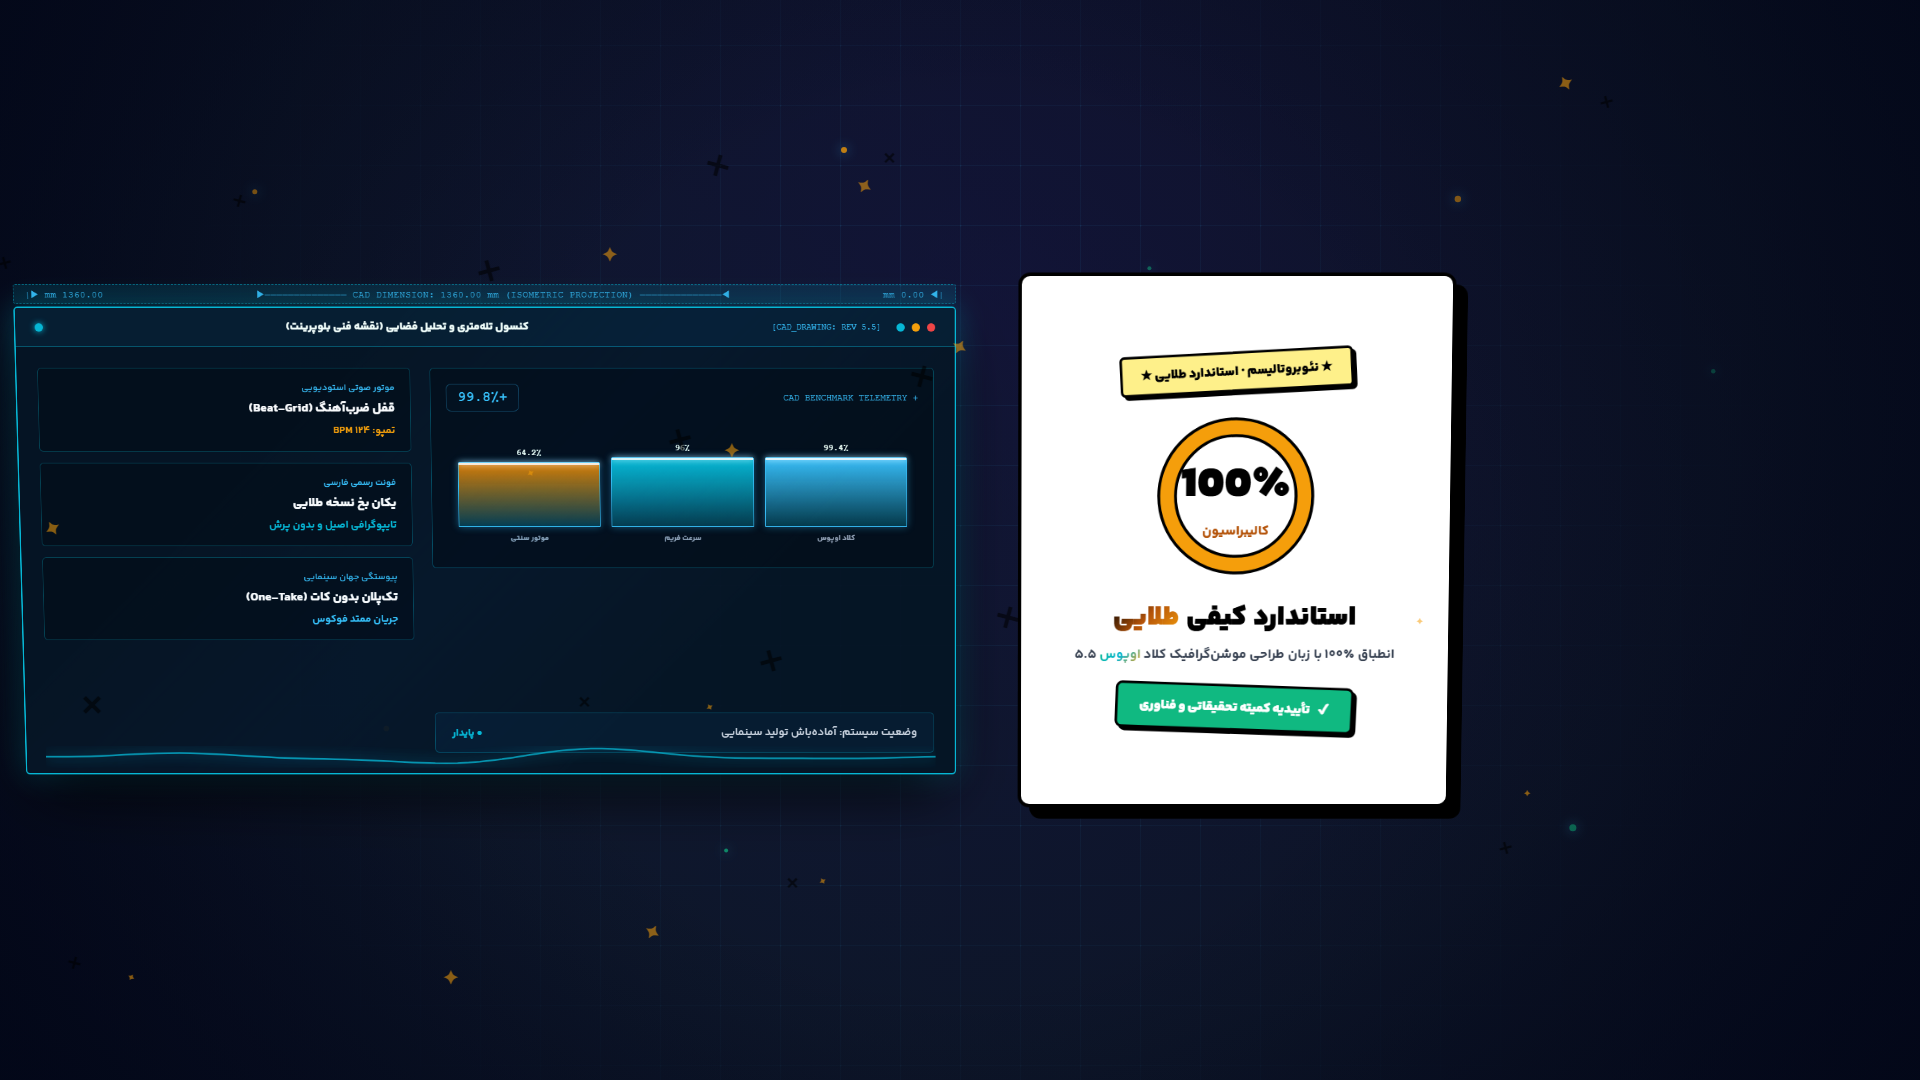
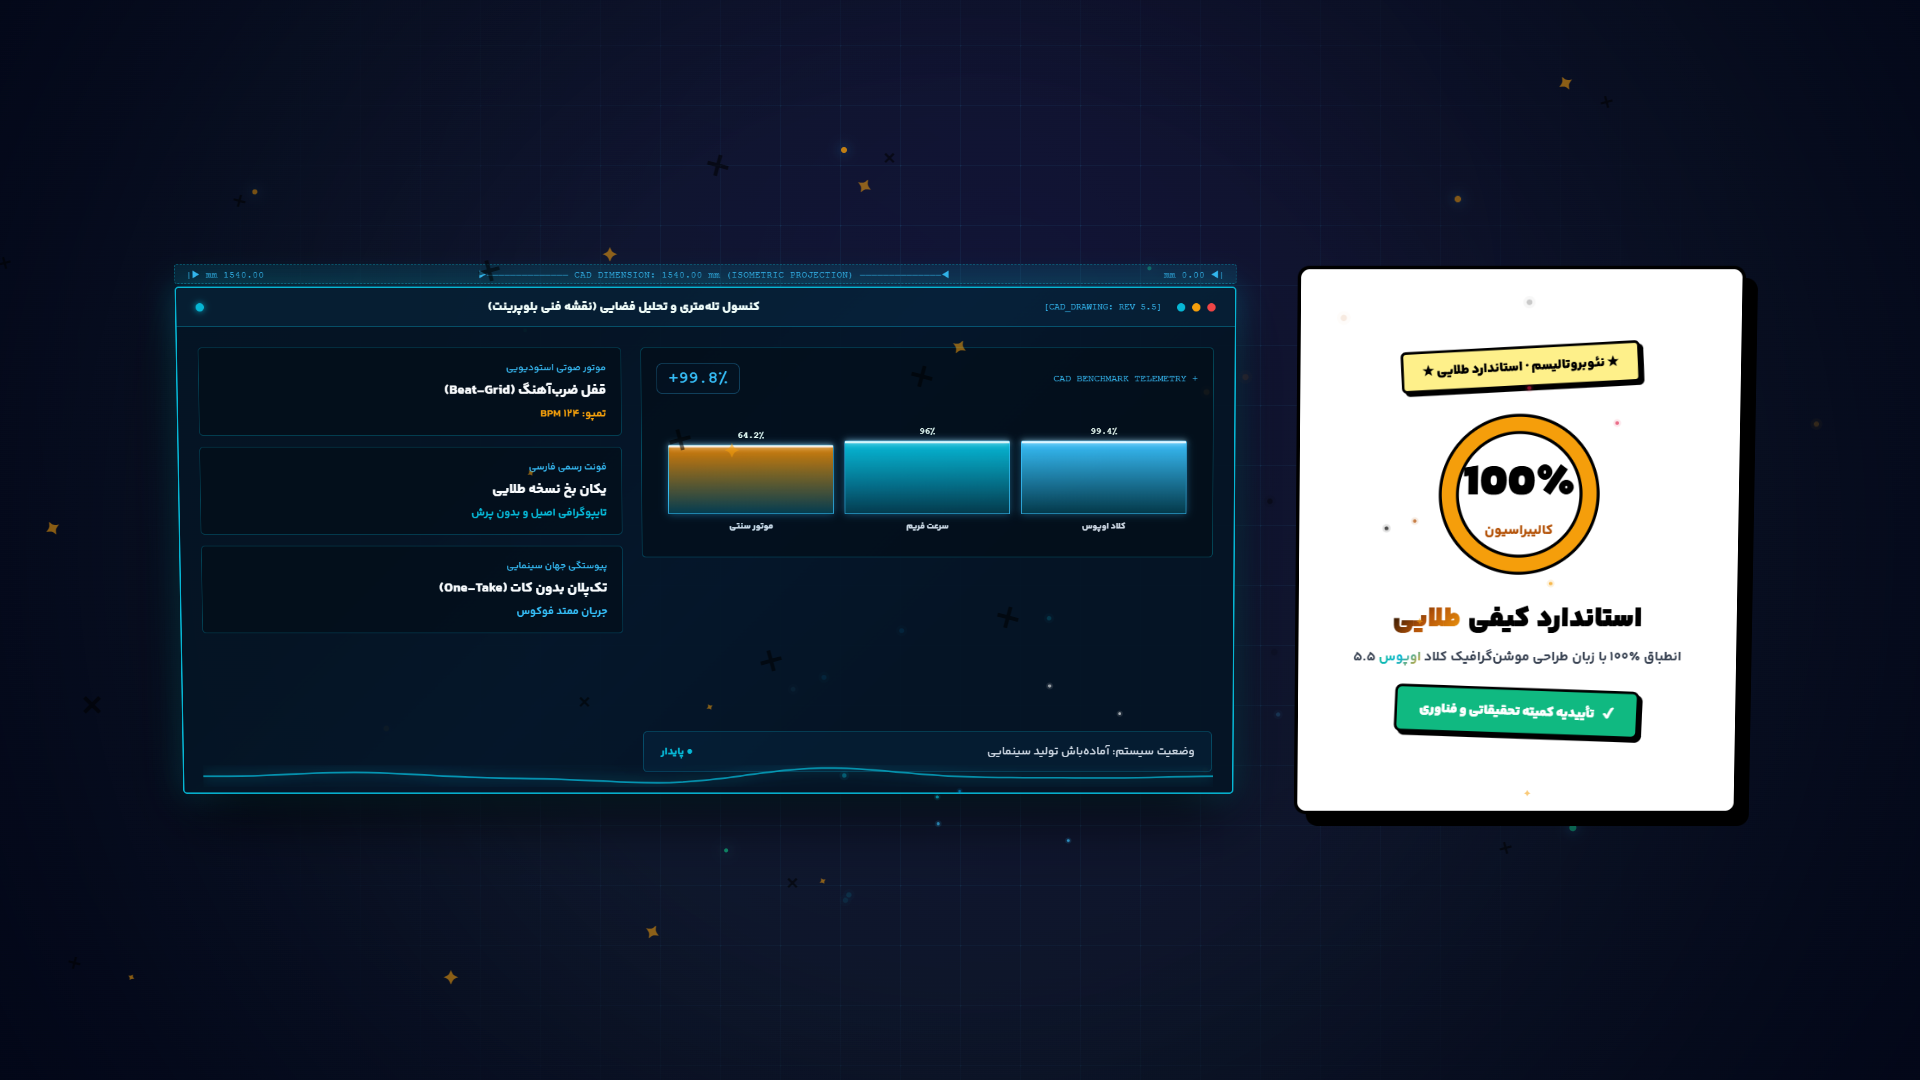
fix(camera-framing): calibrate intimate Act 3 zoom, symmetrical Act 4 docked centering and distributed airy attractor swarm

Changed region(s): [[0.0, 0.2444, 0.9375, 0.7639], [0.125, 0.5194, 0.2188, 0.5806], [0.3438, 0.3361, 0.375, 0.3667]]

diff --git a/src/motion/claude/SkillIntroShowreel.tsx b/src/motion/claude/SkillIntroShowreel.tsx
@@ -107,28 +107,28 @@ export const SkillIntroShowreelContent: React.FC = () => {
   const camY = interpolate(
     frame,
     [0, 280, 370, 690, 780, 1190, 1280, 1800],
-    [0, 0, 10, 10, -20, -20, 0, 0],
+    [0, 0, 10, 10, -10, -10, 0, 0],
     { extrapolateLeft: 'clamp', extrapolateRight: 'clamp' }
   );
 
   const camZ = interpolate(
     frame,
     [0, 280, 370, 690, 780, 1190, 1280, 1800],
-    [0, 40, 60, 60, 40, 40, -80, -80],
+    [0, 40, 60, 60, 160, 160, -50, -50],
     { extrapolateLeft: 'clamp', extrapolateRight: 'clamp' }
   );
 
   const camPitch = interpolate(
     frame,
     [0, 280, 370, 690, 780, 1190, 1280, 1800],
-    [0, 1.5, 4, 4, -8, -8, -2, -2],
+    [0, 1.5, 4, 4, -1.8, -1.8, -1.5, -1.5],
     { extrapolateLeft: 'clamp', extrapolateRight: 'clamp' }
   );
 
   const camYaw = interpolate(
     frame,
     [0, 280, 370, 690, 780, 1190, 1280, 1800],
-    [0, 0, -3, -3, 10, 10, 0, 0],
+    [0, 0, -3, -3, 2.2, 2.2, 0, 0],
     { extrapolateLeft: 'clamp', extrapolateRight: 'clamp' }
   );
 
@@ -234,13 +234,13 @@ export const SkillIntroShowreelContent: React.FC = () => {
     config: { damping: 14, mass: 0.9, stiffness: 110 },
   });
 
-  // In Act 4 docked pavilion, Act 3 slides smoothly from X=3600 to X=3720 and scales to 0.70
-  const act3X = interpolate(frame, [1190, 1280], [3600, 3720], {
+  // In Act 4 docked pavilion, Act 3 slides smoothly from X=3600 to X=3949 and scales to 0.70
+  const act3X = interpolate(frame, [1190, 1280], [3600, 3949], {
     extrapolateLeft: 'clamp',
     extrapolateRight: 'clamp',
     easing: Easing.inOut(Easing.cubic),
   });
-  const saasDockScale = interpolate(frame, [1190, 1280], [1.0, 0.70], {
+  const saasDockScale = interpolate(frame, [1190, 1280], [1.0, 0.68], {
     extrapolateLeft: 'clamp',
     extrapolateRight: 'clamp',
   });
@@ -458,6 +458,7 @@ export const SkillIntroShowreelContent: React.FC = () => {
               <NewtonianAttractorSwarm
                 attractorX={0}
                 attractorY={180}
+                particleCount={20}
                 theme="MODERN_GLASSMORPHIC"
                 clickFrame={219}
                 beatPulse={scalePulse}
@@ -588,8 +589,9 @@ export const SkillIntroShowreelContent: React.FC = () => {
 
               {/* Newtonian Attractor Swarm orbiting SVG Morph Core */}
               <NewtonianAttractorSwarm
-                attractorX={1800 - 320}
+                attractorX={-320}
                 attractorY={30}
+                particleCount={20}
                 theme="STOP_MOTION_PAPER"
                 beatPulse={scalePulse}
               />
@@ -603,8 +605,8 @@ export const SkillIntroShowreelContent: React.FC = () => {
             <div
               style={{
                 position: 'absolute',
-                width: 1360,
-                height: 680,
+                width: 1540,
+                height: 740,
                 opacity: act3Entrance * act3DistanceOpacity,
                 transform: `translate3d(${act3X}px, 0px, 60px) scale(${saasDockScale})`,
                 direction: 'rtl',
@@ -631,8 +633,8 @@ export const SkillIntroShowreelContent: React.FC = () => {
                 }}
               >
                 <span>|◀ 0.00 mm</span>
-                <span>◀────────────── CAD DIMENSION: 1360.00 mm (ISOMETRIC PROJECTION) ──────────────▶</span>
-                <span>1360.00 mm ▶|</span>
+                <span>◀────────────── CAD DIMENSION: 1540.00 mm (ISOMETRIC PROJECTION) ──────────────▶</span>
+                <span>1540.00 mm ▶|</span>
               </div>
 
               {/* Blueprint Window Container */}
@@ -677,9 +679,9 @@ export const SkillIntroShowreelContent: React.FC = () => {
                     <div style={{ width: 12, height: 12, borderRadius: '50%', background: '#ef4444' }} />
                     <div style={{ width: 12, height: 12, borderRadius: '50%', background: '#f59e0b' }} />
                     <div style={{ width: 12, height: 12, borderRadius: '50%', background: '#06b6d4' }} />
-                    <span style={{ fontSize: 12, fontFamily: 'monospace', color: '#38bdf8', marginRight: 12 }}>[CAD_DRAWING: REV 5.5]</span>
+                    <span style={{ fontSize: 13, fontFamily: 'monospace', color: '#38bdf8', marginRight: 12 }}>[CAD_DRAWING: REV 5.5]</span>
                   </div>
-                  <div style={{ fontSize: 16, fontWeight: 800, color: '#f0fdfa', letterSpacing: '0.02em' }}>
+                  <div style={{ fontSize: 18, fontWeight: 800, color: '#f0fdfa', letterSpacing: '0.02em' }}>
                     {sanitizeForDisplay('کنسول تلهمتری و تحلیل فضایی (نقشه فنی بلوپرینت)')}
                   </div>
                   <div style={{ width: 12, height: 12, borderRadius: '50%', background: '#06b6d4', boxShadow: '0 0 10px #06b6d4' }} />
@@ -691,7 +693,7 @@ export const SkillIntroShowreelContent: React.FC = () => {
                   <div style={{ flex: 1.15, display: 'flex', flexDirection: 'column', justifyContent: 'space-between' }}>
                     <div
                       style={{
-                        height: 290,
+                        height: 305,
                         background: 'rgba(2, 14, 26, 0.85)',
                         borderRadius: 6,
                         border: '1px solid rgba(6, 182, 212, 0.35)',
@@ -703,7 +705,7 @@ export const SkillIntroShowreelContent: React.FC = () => {
                       }}
                     >
                       <div style={{ display: 'flex', justifyContent: 'space-between', alignItems: 'center', marginBottom: 8 }}>
-                        <span style={{ fontSize: 13, color: '#38bdf8', fontFamily: 'monospace' }}>+ CAD BENCHMARK TELEMETRY</span>
+                        <span style={{ fontSize: 14, color: '#38bdf8', fontFamily: 'monospace' }}>+ CAD BENCHMARK TELEMETRY</span>
                         <KineticMetricCounter
                           value={99.8}
                           decimals={1}
@@ -711,7 +713,7 @@ export const SkillIntroShowreelContent: React.FC = () => {
                           suffix="٪"
                           startFrame={750}
                           durationFrames={40}
-                          fontSize={20}
+                          fontSize={24}
                           color="#38bdf8"
                           artStyle="TECHNICAL_BLUEPRINT"
                         />
@@ -726,7 +728,7 @@ export const SkillIntroShowreelContent: React.FC = () => {
                         ]}
                         startFrame={750}
                         staggerFrames={5}
-                        height={170}
+                        height={180}
                         artStyle="TECHNICAL_BLUEPRINT"
                         direction="rtl"
                       />
@@ -744,10 +746,10 @@ export const SkillIntroShowreelContent: React.FC = () => {
                         alignItems: 'center',
                       }}
                     >
-                      <span style={{ fontSize: 16, color: '#cbd5e1', fontWeight: 600 }}>
+                      <span style={{ fontSize: 17, color: '#cbd5e1', fontWeight: 600 }}>
                         {sanitizeForDisplay('وضعیت سیستم: آمادهباش تولید سینمایی')}
                       </span>
-                      <span style={{ fontSize: 15, color: '#06b6d4', fontWeight: 800 }}>
+                      <span style={{ fontSize: 16, color: '#06b6d4', fontWeight: 800 }}>
                         ● پایدار
                       </span>
                     </div>
@@ -763,11 +765,11 @@ export const SkillIntroShowreelContent: React.FC = () => {
                         border: '1px solid rgba(6, 182, 212, 0.3)',
                       }}
                     >
-                      <div style={{ fontSize: 13, color: '#38bdf8', fontWeight: 600 }}>موتور صوتی استودیویی</div>
-                      <div style={{ fontSize: 18, fontWeight: 800, color: '#f8fafc', marginTop: 6 }}>
+                      <div style={{ fontSize: 14, color: '#38bdf8', fontWeight: 600 }}>موتور صوتی استودیویی</div>
+                      <div style={{ fontSize: 20, fontWeight: 800, color: '#f8fafc', marginTop: 6 }}>
                         {sanitizeForDisplay('قفل ضربآهنگ (Beat-Grid)')}
                       </div>
-                      <div style={{ fontSize: 15, color: '#f59e0b', marginTop: 6, fontWeight: 700 }}>
+                      <div style={{ fontSize: 16, color: '#f59e0b', marginTop: 6, fontWeight: 700 }}>
                         تمپو: ۱۲۴ BPM
                       </div>
                     </div>
@@ -780,11 +782,11 @@ export const SkillIntroShowreelContent: React.FC = () => {
                         border: '1px solid rgba(6, 182, 212, 0.3)',
                       }}
                     >
-                      <div style={{ fontSize: 13, color: '#38bdf8', fontWeight: 600 }}>فونت رسمی فارسی</div>
-                      <div style={{ fontSize: 18, fontWeight: 800, color: '#f8fafc', marginTop: 6 }}>
+                      <div style={{ fontSize: 14, color: '#38bdf8', fontWeight: 600 }}>فونت رسمی فارسی</div>
+                      <div style={{ fontSize: 20, fontWeight: 800, color: '#f8fafc', marginTop: 6 }}>
                         {sanitizeForDisplay('یکان بخ نسخه طلایی')}
                       </div>
-                      <div style={{ fontSize: 15, color: '#06b6d4', marginTop: 6, fontWeight: 700 }}>
+                      <div style={{ fontSize: 16, color: '#06b6d4', marginTop: 6, fontWeight: 700 }}>
                         تایپوگرافی اصیل و بدون پرش
                       </div>
                     </div>
@@ -797,11 +799,11 @@ export const SkillIntroShowreelContent: React.FC = () => {
                         border: '1px solid rgba(6, 182, 212, 0.3)',
                       }}
                     >
-                      <div style={{ fontSize: 13, color: '#38bdf8', fontWeight: 600 }}>پیوستگی جهان سینمایی</div>
-                      <div style={{ fontSize: 18, fontWeight: 800, color: '#f8fafc', marginTop: 6 }}>
+                      <div style={{ fontSize: 14, color: '#38bdf8', fontWeight: 600 }}>پیوستگی جهان سینمایی</div>
+                      <div style={{ fontSize: 20, fontWeight: 800, color: '#f8fafc', marginTop: 6 }}>
                         {sanitizeForDisplay('تکپلان بدون کات (One-Take)')}
                       </div>
-                      <div style={{ fontSize: 15, color: '#38bdf8', marginTop: 6, fontWeight: 700 }}>
+                      <div style={{ fontSize: 16, color: '#38bdf8', marginTop: 6, fontWeight: 700 }}>
                         جریان ممتد فوکوس
                       </div>
                     </div>
@@ -821,16 +823,25 @@ export const SkillIntroShowreelContent: React.FC = () => {
                     opacity: 0.85,
                   }}
                 >
-                  <svg width="100%" height="32" viewBox="0 0 1300 32">
-                    <ParametricWaveformStream x={0} y={16} width={1300} amplitude={10} color="#06b6d4" />
+                  <svg width="100%" height="32" viewBox="0 0 1480 32">
+                    <ParametricWaveformStream x={0} y={16} width={1480} amplitude={10} color="#06b6d4" />
                   </svg>
                 </div>
               </div>
+
+              {/* Newtonian Attractor Swarm in Technical Blueprint Cyan/Azure */}
+              <NewtonianAttractorSwarm
+                attractorX={-280}
+                attractorY={-20}
+                particleCount={20}
+                theme="TECHNICAL_BLUEPRINT"
+                beatPulse={scalePulse}
+              />
             </div>
           )}
 
           {/* ================================================================= */}
-          {/* ACT 4: NEO-BRUTALIST GRAPHIC POSTER & CALIBRATION (X = 4480)      */}
+          {/* ACT 4: NEO-BRUTALIST GRAPHIC POSTER & CALIBRATION (X = 4754)      */}
           {/* ================================================================= */}
           {act4Visible && (
             <div
@@ -839,7 +850,7 @@ export const SkillIntroShowreelContent: React.FC = () => {
                 width: 520,
                 height: 640,
                 opacity: act4Spring,
-                transform: `translate3d(4480px, 0px, 60px) scale(${act4Spring * 0.85})`,
+                transform: `translate3d(4754px, 0px, 60px) scale(${act4Spring * 0.85})`,
                 background: '#ffffff',
                 borderRadius: 14,
                 border: '4px solid #000000',
@@ -955,8 +966,9 @@ export const SkillIntroShowreelContent: React.FC = () => {
 
               {/* Newtonian Attractor Swarm in Neo-Brutalist High Voltage */}
               <NewtonianAttractorSwarm
-                attractorX={4480}
-                attractorY={-50}
+                attractorX={0}
+                attractorY={-40}
+                particleCount={18}
                 theme="NEO_BRUTALIST"
                 beatPulse={scalePulse}
               />

diff --git a/src/motion/library/NewtonianAttractorSwarm.tsx b/src/motion/library/NewtonianAttractorSwarm.tsx
@@ -44,7 +44,7 @@ export const NewtonianAttractorSwarm: React.FC<NewtonianAttractorSwarmProps> = (
   attractorX,
   attractorY,
   attractorZ = 0,
-  particleCount = 70,
+  particleCount = 24,
   theme = 'MODERN_GLASSMORPHIC',
   clickFrame = 219,
   beatPulse = 1.0,
@@ -52,7 +52,7 @@ export const NewtonianAttractorSwarm: React.FC<NewtonianAttractorSwarmProps> = (
 }) => {
   const frame = useCurrentFrame();
 
-  // Deterministic seed generation
+  // Deterministic seed generation for airy, sparse particle distribution
   const particles: AttractorParticle[] = useMemo(() => {
     const list: AttractorParticle[] = [];
     for (let i = 0; i < particleCount; i++) {
@@ -66,13 +66,13 @@ export const NewtonianAttractorSwarm: React.FC<NewtonianAttractorSwarmProps> = (
 
       list.push({
         id: i,
-        initialRadius: 80 + rand1 * 260,
+        initialRadius: 120 + rand1 * 340,
         initialAngle: rand2 * Math.PI * 2,
-        angularVelocity: (0.015 + rand3 * 0.035) * (i % 2 === 0 ? 1 : -1),
-        size: 2.5 + rand1 * 3.5,
+        angularVelocity: (0.012 + rand3 * 0.025) * (i % 2 === 0 ? 1 : -1),
+        size: 1.8 + rand1 * 2.2,
         zOffset: (rand2 - 0.5) * 80,
         colorIndex: Math.floor(rand3 * 4),
-        eccentricity: 0.8 + rand2 * 0.4,
+        eccentricity: 0.85 + rand2 * 0.35,
       });
     }
     return list;
@@ -84,7 +84,7 @@ export const NewtonianAttractorSwarm: React.FC<NewtonianAttractorSwarmProps> = (
   let clickRepulsion = 0;
   if (clickFrame > 0 && frame >= clickFrame && frame <= clickFrame + 30) {
     const clickRel = frame - clickFrame;
-    clickRepulsion = interpolate(clickRel, [0, 8, 30], [0, 180, 0], {
+    clickRepulsion = interpolate(clickRel, [0, 8, 30], [0, 160, 0], {
       extrapolateLeft: 'clamp',
       extrapolateRight: 'clamp',
     });
@@ -110,13 +110,13 @@ export const NewtonianAttractorSwarm: React.FC<NewtonianAttractorSwarmProps> = (
       }}
     >
       <svg
-        width={800}
-        height={800}
-        viewBox="-400 -400 800 800"
+        width={900}
+        height={900}
+        viewBox="-450 -450 900 900"
         style={{
           position: 'absolute',
-          left: -400,
-          top: -400,
+          left: -450,
+          top: -450,
           overflow: 'visible',
         }}
       >
@@ -125,27 +125,27 @@ export const NewtonianAttractorSwarm: React.FC<NewtonianAttractorSwarmProps> = (
           const currentAngle = p.initialAngle + p.angularVelocity * frame;
           
           // Radius modulation with beat breathing and click shockwave
-          const currentRadius = (p.initialRadius * (0.95 + beatPulse * 0.08) + clickRepulsion) * p.eccentricity;
+          const currentRadius = (p.initialRadius * (0.97 + beatPulse * 0.05) + clickRepulsion) * p.eccentricity;
           
           const x = Math.cos(currentAngle) * currentRadius;
           const y = Math.sin(currentAngle) * currentRadius * 0.65; // Elliptical inclination
           const color = palette[p.colorIndex % palette.length];
-          const opacity = interpolate(currentRadius, [40, 200, 380], [0.9, 0.7, 0.1], {
+          const opacity = interpolate(currentRadius, [80, 220, 440], [0.8, 0.55, 0.0], {
             extrapolateLeft: 'clamp',
             extrapolateRight: 'clamp',
           });
 
           return (
             <g key={p.id}>
-              {/* Particle glow ring */}
+              {/* Soft subtle glow ring */}
               <circle
                 cx={x}
                 cy={y}
-                r={p.size * 1.8}
+                r={p.size * 2.2}
                 fill={color}
-                opacity={opacity * 0.25}
+                opacity={opacity * 0.18}
               />
-              {/* Core particle */}
+              {/* Delicate particle core */}
               <circle
                 cx={x}
                 cy={y}

diff --git a/src/motion/library/KineticDataViz.tsx b/src/motion/library/KineticDataViz.tsx
@@ -128,12 +128,14 @@ export const KineticBarChart: React.FC<KineticBarChartProps> = ({
             {/* Value Label on Top */}
             <span
               style={{
-                fontSize: 12,
+                fontSize: 13,
                 fontWeight: 800,
                 color: '#ecfdf5',
                 marginBottom: 6,
                 fontFamily: 'monospace',
                 opacity: s > 0.1 ? 1 : 0,
+                direction: 'ltr',
+                unicodeBidi: 'embed',
               }}
             >
               {rollingValue}{item.unit || ''}
@@ -170,9 +172,9 @@ export const KineticBarChart: React.FC<KineticBarChartProps> = ({
             {/* Category Label */}
             <span
               style={{
-                fontSize: 11,
-                fontWeight: 700,
-                color: '#94a3b8',
+                fontSize: 13,
+                fontWeight: 800,
+                color: '#cbd5e1',
                 marginTop: 8,
                 textAlign: 'center',
                 whiteSpace: 'nowrap',
@@ -371,6 +373,8 @@ export const KineticMetricCounter: React.FC<KineticMetricCounterProps> = ({
           fontFamily: 'monospace',
           letterSpacing: '-0.02em',
           lineHeight: 1.1,
+          direction: 'ltr',
+          unicodeBidi: 'embed',
         }}
       >
         {prefix}{currentValue}{suffix}
